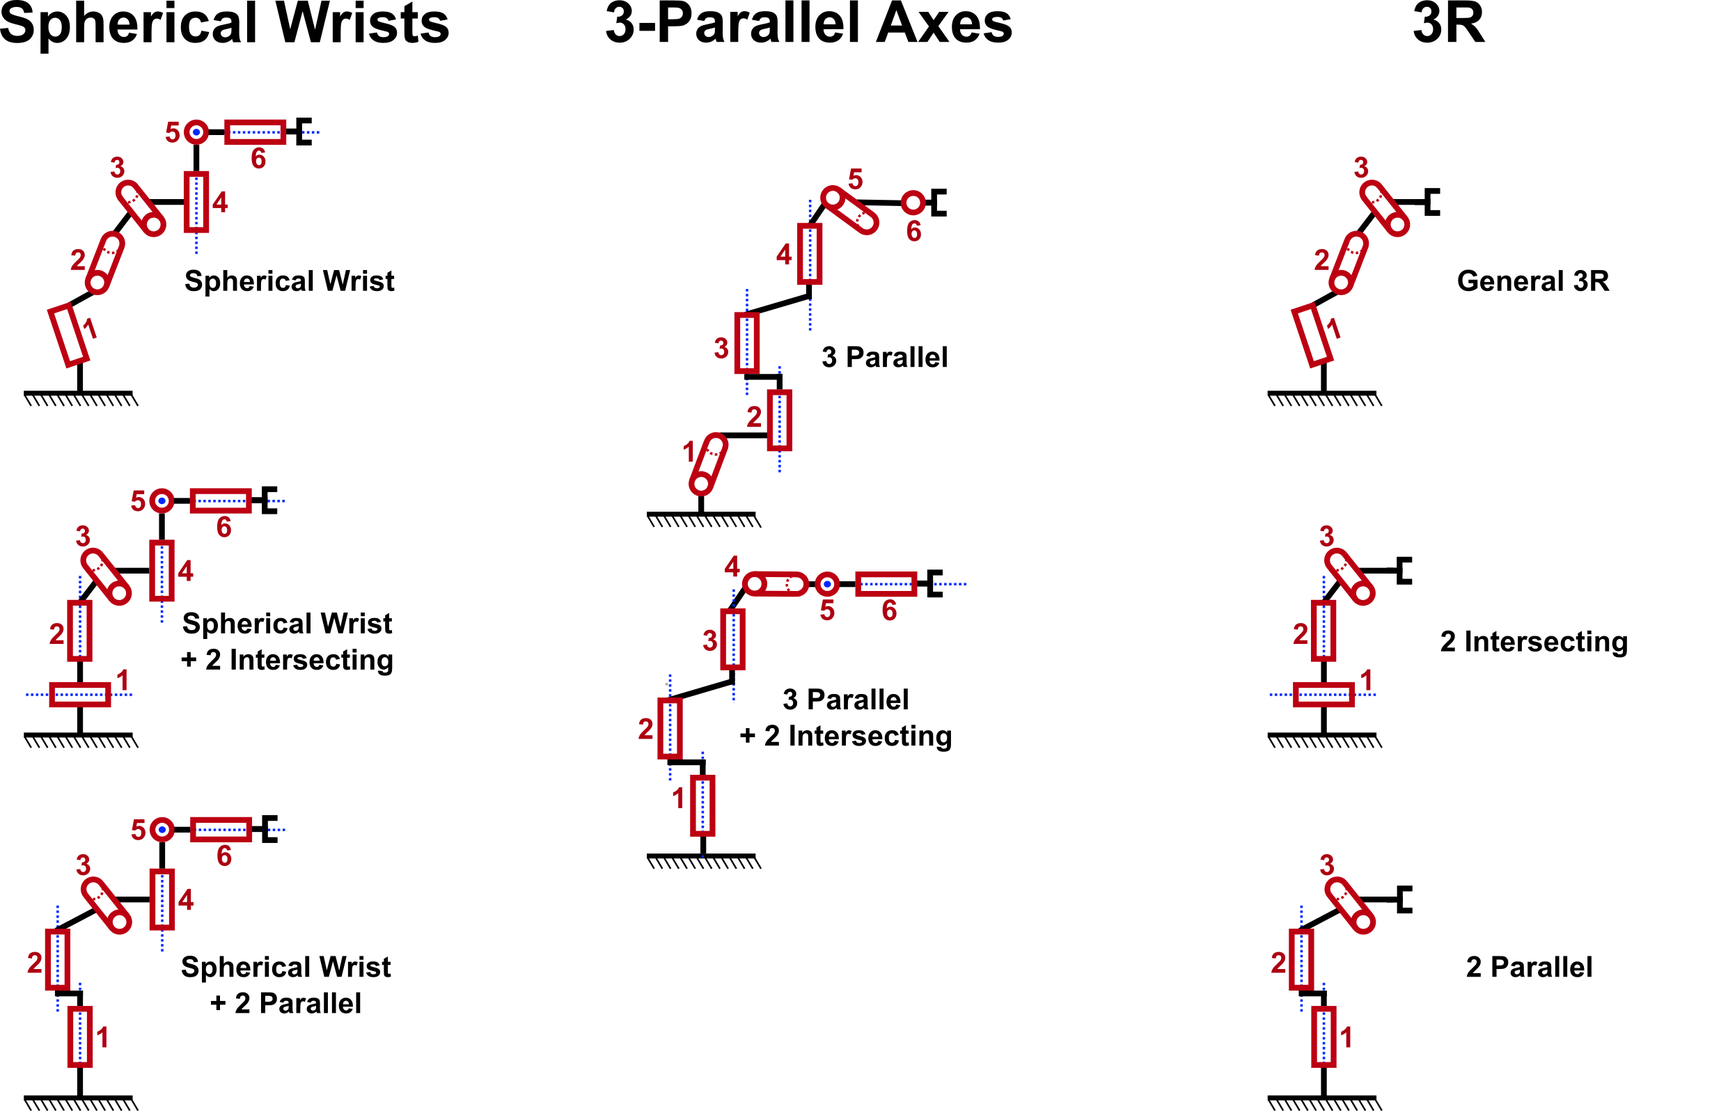
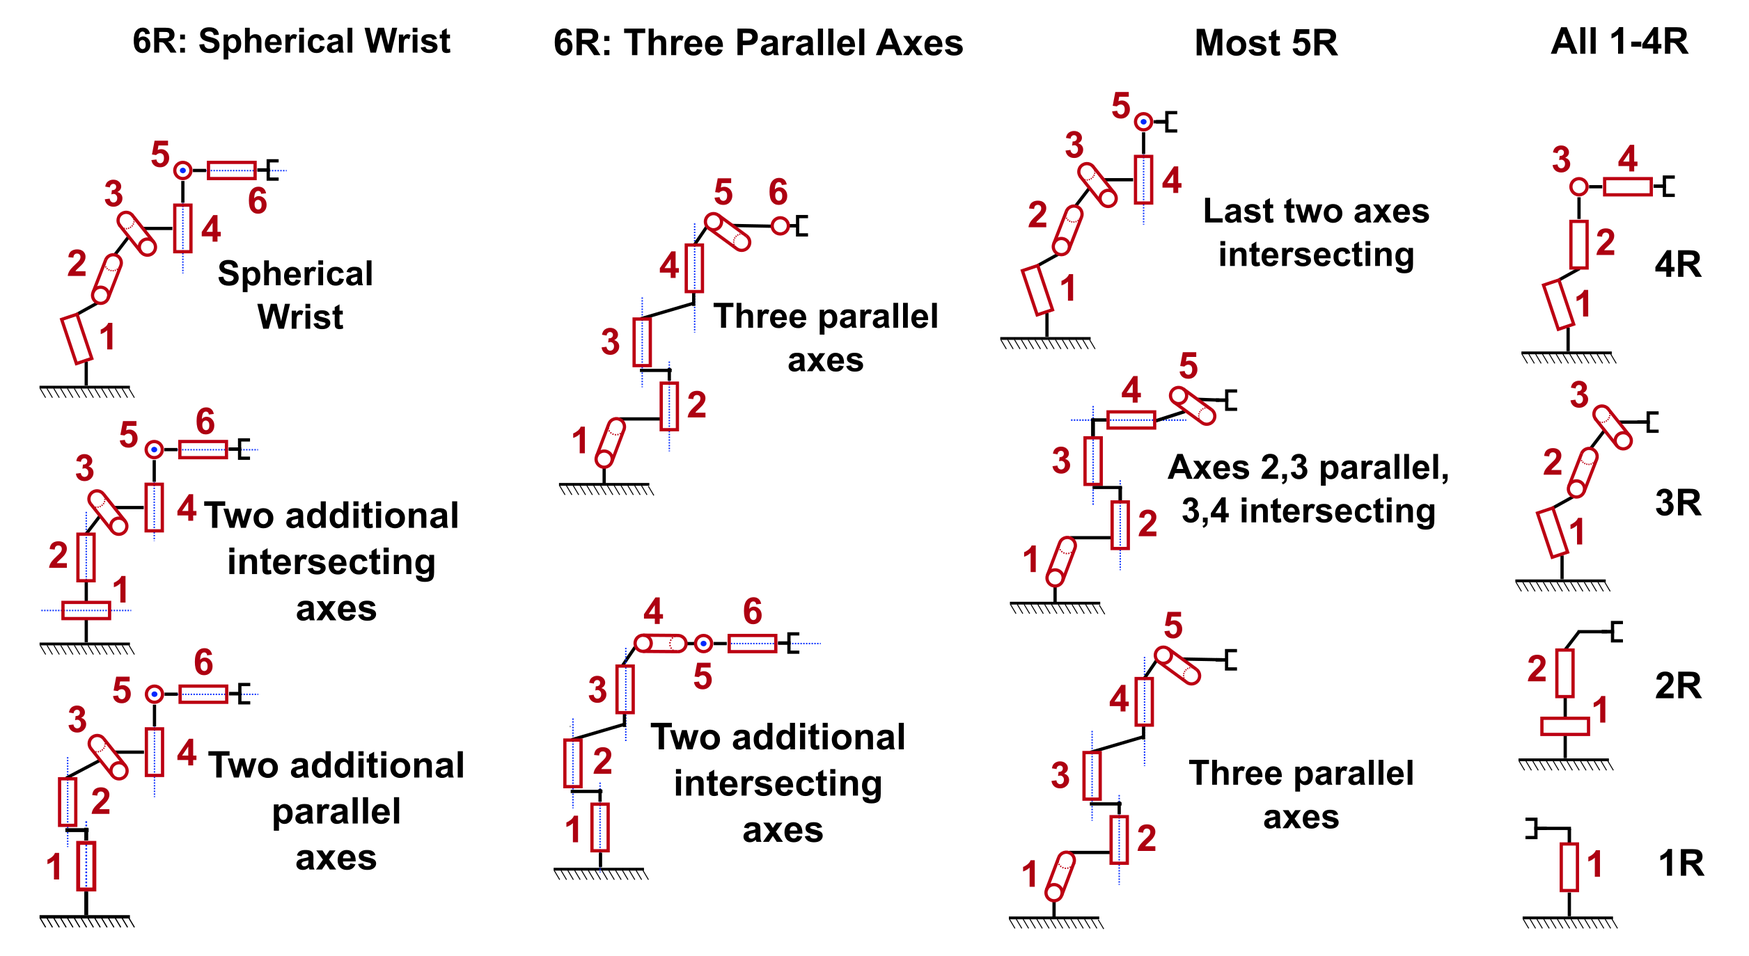
Updating README

diff --git a/README.md b/README.md
@@ -1,9 +1,20 @@
 # EAIK: A Toolbox for Efficient Analytical Inverse Kinematics by Subproblem Decomposition
-## Overview
+This toolbox is based on the scientific publication "Automatic Geometric Decomposition for Analytical Inverse Kinematics"
+**Authors:** Daniel Ostermeier,
+Jonathan Külz and Matthias Althoff<br><br>
+[![arxiv.org](https://img.shields.io/badge/cs.RO-%09arXiv%3A2409.14815-red)](https://arxiv.org/abs/2409.14815)<br>
+
+Please cite the above work when using this code within your own projects.
+
 A preprint of the accompanying paper to this codebase is available [here](https://arxiv.org/abs/2409.14815).
 <br>
-Please also visit our [Website](https://eaik.cps.cit.tum.de) for further informations.
+Please visit our [website](https://eaik.cps.cit.tum.de) for further informations.
 
+Additional derivations that were used within this toolbox are contained in [this PDF](https://github.com/OstermD/EAIK/blob/webpage/PDFs/EAIK_extended_appendix.pdf).
+Feel free to contact us if you have any questions or suggestions: 
+Open up a [GitHub issue](https://github.com/OstermD/EAIK/issues).
+
+## Overview
 With this toolbox, we propose a method for automatic inverse kinematic derivation.
 We exploit intersecting and parallel axes to remodel a manipulator's kinematic chain.
 
@@ -16,77 +27,102 @@ The following figure illustrates a robot with a spherical wrist and the geometri
   <img width="50%" src="https://github.com/OstermD/EAIK/raw/PyPi/Images/Titlefigure.png"/>
 </figure>
 
-We adopt the solutions and overall canonical subproblem set from [Elias et al.](https://arxiv.org/abs/2211.05737):<br>
-A. J. Elias and J. T. Wen, “Ik-geo: Unified robot inverse kinematics
-using subproblem decomposition” arXiv:2211.05737, 2024<br>
-Please check out their publication and [implementation](https://github.com/rpiRobotics/ik-geo).
+We adopt the solutions and overall canonical subproblem set from Elias et al.:<br>
+A. J. Elias and J. T. Wen, “IK-Geo: Unified robot inverse kinematics
+using subproblem decomposition,” Mechanism and Machine Theory,
+vol. 209, no. 105971, 2025.<br>
+Check out their [publication](https://www.sciencedirect.com/science/article/pii/S0094114X25000606) and [implementation](https://github.com/rpiRobotics/ik-geo).
 
 
 ## Capabilities of this Toolbox
-The current implementation supports automatic derivation of solutions for the following 6R and 3R manipulators, as well as their mirrored version (switched base and endeffector):
+The current implementation supports automatic derivation of solutions for the following 6R and 5R manipulators, as well as their mirrored version (switched base and endeffector), and all non-redundant 1-4R manipulators.
+In addition, we allow the user to solve arbitrary nR manipulators that, by locking individual joints, corrspond to one of the below kinematic families.
+
 <br>
 <figure figcaption align="center">
-  <img src="https://github.com/OstermD/EAIK/raw/PyPi/Images/Kinematic_types.png"/>
+  <img src="Images/Kinematic_types.png"/>
+  <figcaption>Robot configurations (without their mirrored version) that can be solved by the current EAIK implementation. NR-Robots that contain these structures as kinematic subchains are solvable if the leftover redundant joints are locked in place.
+  For the 5R manipulators, all (non-redundant) specializations of the shown classes (i.e., with additional intersecting/parallel axes) are solvable as well.</figcaption>
 </figure>
 
-In addition, we allow the user to solve arbitrary nR manipulators that, by locking individual joints, corrspond to one of the above kinematic families.
+<br>
 
-We implement an user friendly interface for parametrizing a robot by a URDF file, DH parameters, or simply the homogeneous transformations that correspond to the joint axes placements (see examples).
+We implement an user friendly interface for parametrizing a robot by a URDF file, DH parameters, or simply the homogeneous transformations that correspond to the joint axes placements.
 
-If you require a vast amount of IK problems to be computed at once, we also implement a multithreaded batched version that allows you to make full use of processor.
+The following figure shows an overview of our interface and a superficial showcase of our method:
 
+<figure figcaption align="center">
+  <img src="Images/Poster_Method.png"/>
+</figure>
+
+If you require a vast amount of IK problems to be computed at once, we also implement a multithreaded batched version that allows you to make full use of your processor.
+
+## Installation
 ## Dependencies and Installation
 We use [Eigen 3.4](https://eigen.tuxfamily.org/index.php?title=Main_Page) for a fast implementation of the linear algebra operations within this toolbox.
-Make sure you have your Eigen headers placed in their standard directory ('/usr/include/eigen3', '/usr/local/include/eigen3') - otherwise the following steps will not work for you.
+Make sure you have your Eigen headers placed in their standard directory ('/usr/include/eigen3', '/usr/local/include/eigen3') - otherwise the following step will not work for you.
 
-We suggest using our pip-installable [PyPi package](https://pypi.org/project/EAIK/#description). Simply use the following command on your Linux machine:
+We suggest using our pip-installable [PyPI package](https://pypi.org/project/EAIK/#description). Simply use the following command on your Linux machine:
 
 ```
 pip install EAIK
 ```
 
+<br>
 
-## Python examples
-Our goal is to make analytical IK as accessable as possible. The following example should just provide a quick insight into the simplicity in using EAIK.
-You can find more elaborate examples on how to use our toolbox within the "src/eaik/examples" directory of our [GitHub Repository](https://github.com/OstermD/EAIK/tree/main).
+If you want to directly use the C++ functionality as a library and skip the Python wrapper, simply clone our [GitHub Repository](https://github.com/OstermD/EAIK) and follow the following steps.
 
-### Simple DH Parametrization
+
+Make sure to clone the external dependencies of this library using:
+```
+$ git clone --recurse-submodules git@github.com:OstermD/EAIK.git
+```
+Then build the EAIK C++ library by using:
+
+```
+$ mkdir EAIK/CPP/src/build && cd EAIK/CPP/src/build
+$ cmake ..
+$ make
+```
+
+
+## Usage Example
+We currently provide support parametrizing a robot via DH parameters, homogeneous transformations of each joint in zero-pose with respect to the basis, as well as [ROS URDF](http://wiki.ros.org/urdf) files.
+Some quick examples that demonstrate the usability of our implementation are shown in the following code-snippets:
+
+#### DH Parameters
 ```python
 import numpy as np
 from eaik.IK_DH import DhRobot
 
 """
-Example DH parametrization + forward kinematics for some robot kinematic
+Example DH parametrization + forward kinematics for a random robot kinematic
 """
 
 d = np.array([0.67183, 0.13970, 0, 0.43180, 0, 0.0565])
 alpha = np.array([-np.pi/2, 0, np.pi/2, -np.pi/2, np.pi/2, 0])
 a = np.array([0,0.43180, -0.02032, 0,0,0])
-bot = DhRobot(alpha, a, d)
+bot = Robot(alpha, a, d)
 
 print(bot.hasKnownDecomposition())
 print(bot.fwdKin(np.array([1,1,1,1,1,1])))
 
 ```
 
-### Robot from a URDF file and IK on random poses
-
+#### Robot from a URDF file and IK on random poses
 ```python
 import numpy as np
 import random
 from eaik.IK_URDF import UrdfRobot
 import evaluate_ik as eval
 
+
 def urdf_example(path, batch_size):
     """
     Loads spherical-wrist robot from urdf, calculates IK using subproblems and checks the solution for a certian batch size
     """
-    bot = UrdfRobot(path, [])
-    print("Kinematic Family of the Robot: ", bot.kinematicFamily())
-    print("Joint axes orientations before remodeling: \n",bot.H_original())
-    print("Joint axes' reference points before remodeling: \n", bot.P_original())
-    print("Joint axes orientations after remodeling: \n", bot.H_remodeled())
-    print("Joint axes' reference points after remodeling: \n", bot.P_remodeled())
+
+    bot = UrdfRobot(path)
 
     # Example desired pose
     test_angles = []
@@ -95,22 +131,223 @@ def urdf_example(path, batch_size):
         rand_angles *= 2*np.pi
         test_angles.append(rand_angles)
     poses = []
+
     for angles in test_angles:
        poses.append(bot.fwdKin(angles))
         
-    sum_pos_error = np.array([0.,0.,0.])
-    sum_rot_error = np.array([0.,0.,0.])
-    total_num_ls = 0
     for pose in poses:
-        ik_solution = bot.IK(pose)
-        error_sum_pos, error_sum_rot, is_ls  = eval.evaluate_ik(bot, ik_solution, pose, np.eye(3))
-        if is_ls:
-            # LS solution
-            total_num_ls += 1
-        sum_pos_error+=error_sum_pos
-        sum_rot_error+=error_sum_rot
-    print("Avg. Orientation Error: ", sum_rot_error/len(poses))
-    print("Avg. Position Error: ", sum_pos_error/len(poses))
-    print("Number analytical: ", len(poses)-total_num_ls)
-    print("Number LS: ", total_num_ls)
+        ik_solutions = bot.IK(pose)
+
+        # Print forward kinematics for all solutions
+        for Q in ik_solutions.Q:
+            pose_fwd = bot.fwdKin(Q)
+            print(pose_fwd)
 ```
+Even more examples for the python interface are available [here](https://github.com/OstermD/EAIK/tree/main/examples).
+
+#### Using the C++ Library
+The example below is just a small code snipped. As the C++ code quickly becomes more evolved, we recommend to look into the [Software Tests](https://github.com/OstermD/EAIK/tree/main/CPP/Tests) we wrote for the C++ side. 
+The code there can also be used as an example on how you can use our library in a bigger project that, e.g., requires checks for least-square solutions etc.
+
+```C
+#include <eigen3/Eigen/Dense>
+#include <vector>
+
+#include "EAIK.h"
+
+const Eigen::Vector3d zv(0, 0, 0);
+const Eigen::Vector3d ex(1, 0, 0);
+const Eigen::Vector3d ey(0, 1, 0);
+const Eigen::Vector3d ez(0, 0, 1);
+
+double rand_angle(); // Just some random angle in [0; 2pi)
+
+void ik_7R_KUKA_R800()
+{
+  // Robot configuration for KUKA LBR iiwa 7 R800
+
+  // Define axes unit vectors
+  Eigen::Matrix<double, 3, 7> H;
+  H << ez, ey, ez, -ey, ez, ey, ez;
+
+  // Define offsets between reference points on joint axes
+  Eigen::Matrix<double, 3, 8> P;
+  P << (0.15 + 0.19) * ez, 
+        zv, 0.21 * ez, 
+        0.19 * ez, 
+        (0.21 + 0.19) * ez, 
+        zv, 
+        zv, 
+        (0.081 + 0.045) * ez;
+
+  // Kuka R800 with q3 locked in random configuration
+  double q3_angle = rand_angle();
+
+  // Create Robot
+  EAIK::Robot kukaR800(H, P, 
+                        Eigen::Matrix<double, 3, 3>::Identity(), 
+                        {std::pair<int, double>(2, q3_angle)});
+
+  // Forward Kinematics
+  IKS::Homogeneous_T ee_pose = kukaR800.fwdkin(std::vector{
+      rand_angle(), 
+      rand_angle(),
+      q3_angle, 
+      rand_angle(), 
+      rand_angle(), 
+      rand_angle(), 
+      rand_angle()
+      });
+  
+  // Inverse Kinematics
+  IKS::IK_Solution solution = robot.calculate_IK(ee_pose);
+}
+
+void main()
+{
+  ik_7R_KUKA_R800();
+}
+```
+
+Again, if you are stuck somewhere or have open questions feel free to reach out to us.
+
+## Solution-Consistency at Workspace Boundaries and Singularities
+For the following experiments we use the Schunk Powerball LWA-4P manipulator—a modularizable 6R manipulator with a spherical wrist and two consecutive intersecting axes in its base.
+
+#### Experiment 1
+For the first experiment, we consider a linear end-effector trajectory reaching from a start position of (x, y, z) = (0m, 0m, 0.5m) to an end position (x, y, z) = (0m, 0m, 1.0m) and back. 
+We align the orientation of the end effector with that of the base of the robot and keep it constant throughout the whole trajectory. <br>
+
+In this example, all points along the trajectory with a z-coordinate smaller than or equal to 0.8m are reachable by the manipulator (neglecting joint limits and self-collisions). However, the first and last axis of the LWA-4P are collinear at every point along this trajectory—the manipulator is always in a singular configuration. Hence,
+infinitely many IK solutions exist for each point along this trajectory with z ≤ 0.8m. On the other hand, all points with a z-coordinate larger than 0.8m are placed outside the workspace of the manipulator—no IK solution exists for any of these points. We sample 100 discrete points along this trajectory and try to compute the IK solution for each point. We obtain the following results:
+
+We obtain at least one IK solution for any point along the trajectory.
+For points where z ≤ 0.8m, this solution is analytically correct with an error in the magnitude of double-precision accuracy. For points where z > 0.8m, this solution is a least-squares solution to the underlying
+subproblems as discussed in our manuscript under Section IV-B. We linearly interpolate between the
+discrete samples in joint space to obtain the joint trajectories in the following figure. While the solutions
+to the subproblems in [Elias et al.](#credits) are unable to represent the full infinite solution space that arises from singular
+configurations, they still yield at least one consistent and analytically accurate solution.<br>
+The following animation shows a simplified LWA-4P model that executes the IK solutions obtained via our method (EAIK). Blue arrows resemble the joint axes of the manipulator, while the pink bars resemble its links.
+Green points represent the commanded positions while exiting the workspace, while red points represent the commanded positions when re-entering the manipulator's workspace (100 points in total).
+
+<figure figcaption align="center">
+  <img width="60%" src="Images/Eaik_wsb_animation.gif"/>
+</figure>
+
+When using our method (EAIK), we obtain sensible joint angles even when commanding poses outside of the workspace of the manipulator or during singular configurations.
+When the manipulator reaches its workspace boundary, our method returns feasible least-squares solutions:
+<figure figcaption align="center">
+  <img src="Images/EAIK_wsb_plot.png"/>
+</figure>
+
+#### Experiment 2
+
+For the second experiment, we induce a slight offset to the trajectory from Experiment 1 along the y-axis.
+The new trajectory starts with the end-effector position (x, y, z) = (0m, −0.001m, 0.5m), reaches to the
+position (x, y, z) = (0m, −0.001m, 1.0m) and goes back to (x, y, z) = (0m, −0.001m, 0.5m). Again, we sample
+100 equidistant points from this trajectory and try to compute IK solutions. <br>
+
+Just like in the first experiment, every point on the trajectory with z ≤ 0.8m can be reached by the manipulator. This time, however, all these points are reachable in non-singular configurations. Therefore, there exists
+only a finite set of IK solutions to each such point. 
+Our method yields solutions accurate up to the expected floating-point precision.
+
+For all points where z > 0.8m, no IK solution exists. However, in real-world situations, values that lie exactly on the workspace boundary can not be perfectly separated from those that lie beyond it. 
+E.g., due to floating-point inaccuracies, a desired set-point of 0.8m may be represented as 0.8m + ϵ where 1 >> ϵ > 0. Our method returns an IK solution that resembles the least-squares solution to the underlying subproblems. The error between the desired and actual error in the end-effector position is often negligible in such cases. These properties make the solutions returned by the subproblems in [Elias et al.](#credits), and thus the solutions provided by our method, consistent and stable even across workspace boundaries.
+
+**As the offset induced in the y-direction is quite small (1mm), the trajectory plot (and also the animation) of our method's performance in this experiment is indistinguishable by the human eye from the plot in the first experiment. We therefore refrain from plotting the same figures again and refer the reader to the visualizations in the prior experiment.**
+
+## Performance
+>**_NOTE:_** All of the following experiments were conducted on a computer with an AMD Ryzen 7 8-core processor and 64GB of DDR4 memory within Ubuntu 22.04.
+
+We compare our method, i.e., the EAIK toolbox, to
+different frameworks on common 6R manipulators: The UR5 robot (three parallel and two intersecting axes), the Puma
+(spherical wrist and two intersecting axes), and the ABB IRB
+6640 (spherical wrist and two parallel axes).
+A Franka Emika Panda (spherical wrist) represents the category of redundant 7R robots, which we solve by joint-locking. We further
+use two conceptual manipulators from [Elias et al.](#credits): The “Spherical”
+(spherical wrist) and “3-Parallel” (three parallel axes) robot.
+Besides IKFast, we also list the computation times on the numerical Gauss-Newton
+(GN) and Levenberg-Marquard (LM) solvers implemented
+in the [Python Robotics Toolbox](https://github.com/petercorke/robotics-toolbox-python). 
+
+The following figure shows a comparison of the IK computation times of six representative manipulators on 5,000 randomly assigned end-effector poses (left) and the batch-times
+on 10,000 random (analytically solvable) 6R manipulators (right). The measured times in (left) correspond to a single solution for the numerical approaches—which we marked with an asterisk—and the set of all possible solutions for EAIK, IKFast, and the method by [He et al.](#credits) respectively. In (left), we additionally include derivation times and only show our method along the numerical ones, as the derivation times of IKFast are too long for this task to finish within a reasonable time. Our method shows the smallest overall variance and, except for the Puma and Panda robot, consistently surpasses all other methods.
+<figure figcaption align="center">
+  <img src="Images/Computation_Times.png"/>
+  <figcaption></figcaption>
+</figure>
+
+Further, we randomly generate 20 different 6R manipulators with their last three joints resembling a spherical wrist.
+The chosen manipulators cover all decisive combinations of intersecting or parallel axes relevant to our current decomposition.
+For these manipulators, the input to our method is a series of six homogeneous transformations that describe the position and orientation of the respective joints.
+The time measurements were obtained by running a batch size of 100'000 derivations.
+
+<figure figcaption align="center">
+  <img src="Images/Speed_Boxplots.png"/>
+  <figcaption>IK derivation (left) and computation times (right)</figcaption>
+</figure>
+
+We further compare our method to one of the current state-of-the-art methods for general analytical IK computation: [*IKFAST*](https://docs.ros.org/en/kinetic/api/moveit_tutorials/html/doc/ikfast/ikfast_tutorial.html).
+We use five typical industrial 6R manipulators that comply with the Pieper criteria. The UR5 robot (three parallel and two intersecting axes), the Puma (spherical wrist and two intersecting axes), and the IRB 6640 (spherical wrist and two parallel axes) resemble real-world manipulators.
+The Spherical (spherical wrist) and 3-Parallel (three parallel axes) robots, on the other hand, are made up by [Elias et al.](#credits)
+The input to our implementation is an [*URDF*](https://wiki.ros.org/urdf) file that contains the manipulator's structure.
+The input to IKFast is an equivalent [*COLLADA*](https://www.khronos.org/api/collada) XML file.
+
+<figure figcaption align="center">
+  <img width="30%" src="Images/Table_Speed_Comp.png"/>
+  <figcaption>Table: IK-derivation times of IKFast and our method
+</figcaption>
+</figure>
+
+We compare our approach to the learning-based approach
+[*IKFlow*](https://github.com/jstmn/ikflow) by the 7R Franka Panda robot. As this robot
+is inherently redundant, we need to set one joint angle in
+advance (i.e., use joint locking) to solve the Panda robot
+analytically, while IKFlow is able to make use of all seven
+joints. Our experiments show a mean computation time of
+75.07 μs for IKFlow (7507 μs per batch - IKFlow performs batched computation for 100 poses simultaneously) and 3.67 μs for our
+method. However, by employing joint locking,
+we can not sample from the same infinite solution space that
+IKFlow makes use of, which leads to less diverse solutions.
+
+The following figure shows the just mentioned values for the Panda robot, as well as the position and orientation errors that different methods resulted for non-redundant UR5 robot. 
+<figure figcaption align="center">
+  <img src="Images/panda_ur5_error.png"/>
+  <figcaption>Computation times and position error for the Panda robot, as well as the UR5. The dashed red lines
+indicates the repeatability precision of the robot according to its datasheet.</figcaption>
+</figure>
+
+## Accuracy
+To further evaluate our implementation's accuracy, we sample 100 random poses throughout the workspace of a representative subset of the above mentioned manipulators.
+We calculate the error metric of each solution by the Frobenius norm of the difference between the homogeneous transformation of our IK's result and the ground truth, i.e., the sum of the squared differences between the entries in the matrices.
+
+<figure figcaption align="center">
+  <img width="65%" src="Images/Table_Error_Average.png"/>
+  <figcaption>Panda computation times and Error metric across 100 poses for three representative manipulators</figcaption>
+</figure>
+
+
+We further create 10'000 resampled bootstrap distributions (each 100 samples) and calculate their respective means.
+The means of these resamplings, together with a bias corrected and accelerated ([B. Efron](#credits)) 95\% confidence interval, are visualized in the following figures:
+<figure figcaption align="center">
+  <img src="Images/Bootstrap_Distribution_Mean.png"/>
+</figure>
+
+
+[*IKFAST*](https://docs.ros.org/en/kinetic/api/moveit_tutorials/html/doc/ikfast/ikfast_tutorial.html) - the analytical solver that we compare our implementation to - is part of the work of:<br>
+R. Diankov. “Kinematics and Control of Robot Manipulators”. PhD thesis. Carnegie Mellon University Pittsburgh, Pennsylvania, 2010
+
+[*IKFlow*](https://github.com/jstmn/ikflow) - the learning-based solver that we compare our implementation to - is part of the work of: B. Ames, J. Morgan, and G. Konidaris, “IKFlow: Generating diverse
+inverse kinematics solutions,” IEEE Robotics and Automation Letters,
+vol. 7, no. 3, 2022.
+
+[Python Robotics Toolbox](https://github.com/petercorke/robotics-toolbox-python) - the toolbox we use to compare our implementation to numerical solvers - is part of the work of:
+P. Corke and J. Haviland, “Not your grandmother’s toolbox–the
+robotics toolbox reinvented for Python,” in Proc. of the IEEE Int.
+Conf. on Robotics and Automation (ICRA), 2021, pp. 11 357–11 363
+
+Y. He and S. Liu, “Analytical inverse kinematics for Franka Emika
+Panda – a geometrical solver for 7-DOF manipulators with un-
+conventional design,” in Proc. of the IEEE Int. Conf. on Control, Mechatronics and Automation (ICCMA), 2021, pp. 194–199
+
+B. Efron. "Better Bootstrap Confidence Intervals". Journal of the American Statistical Association. Vol. 82, No. 397: 171–185, 1987
